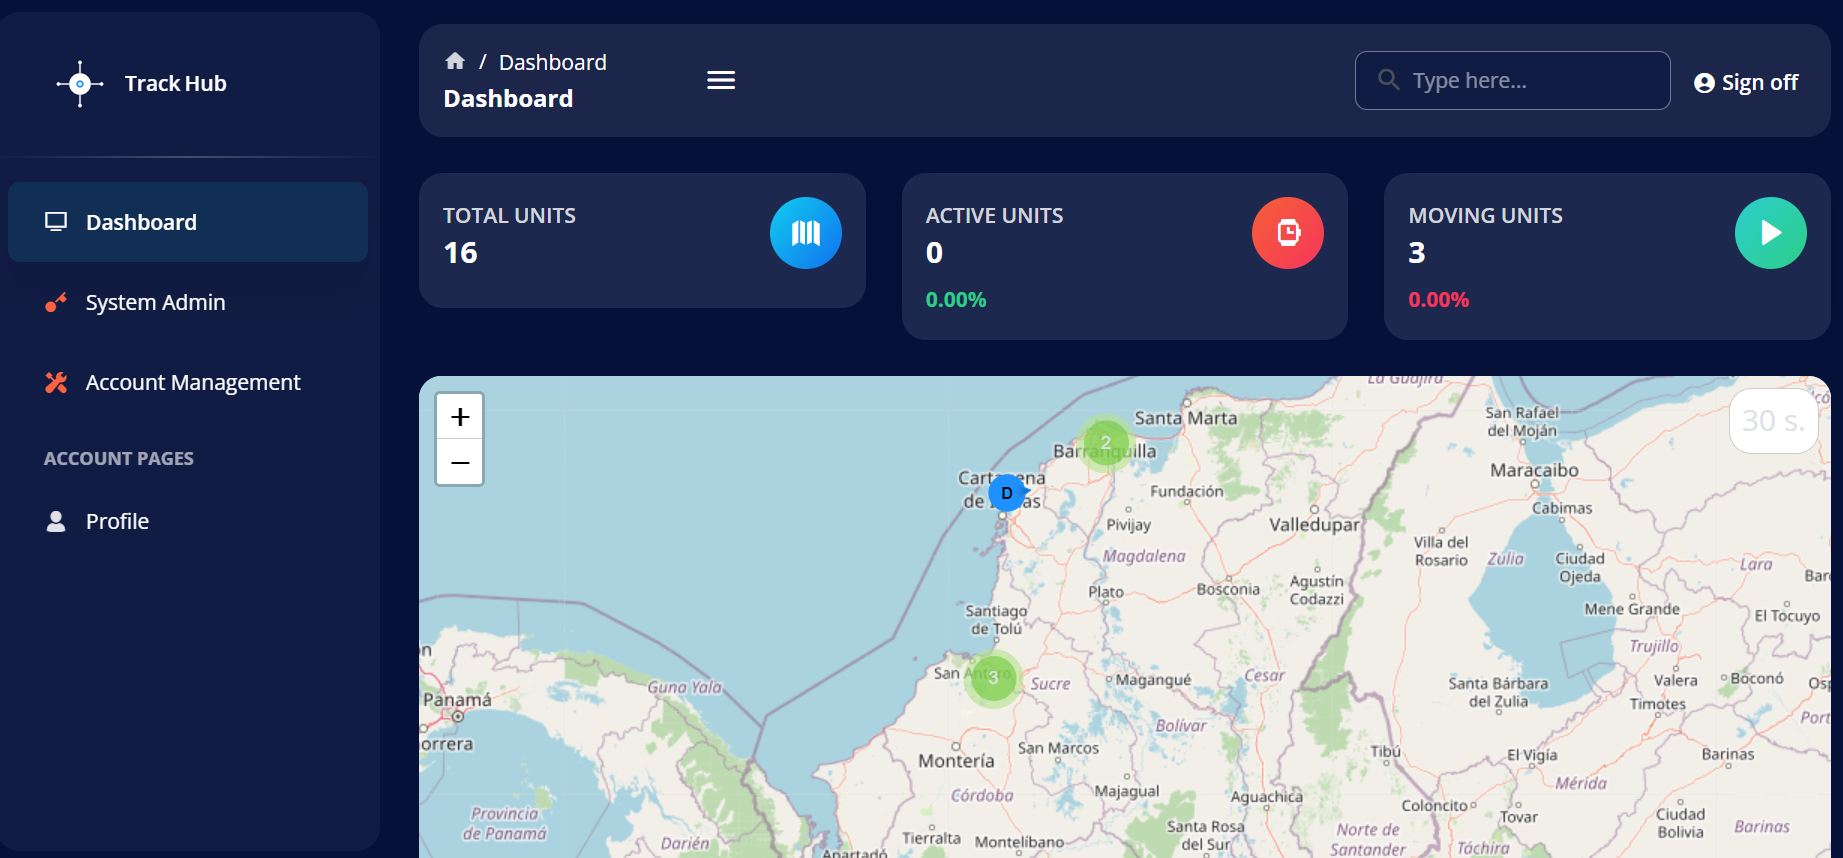
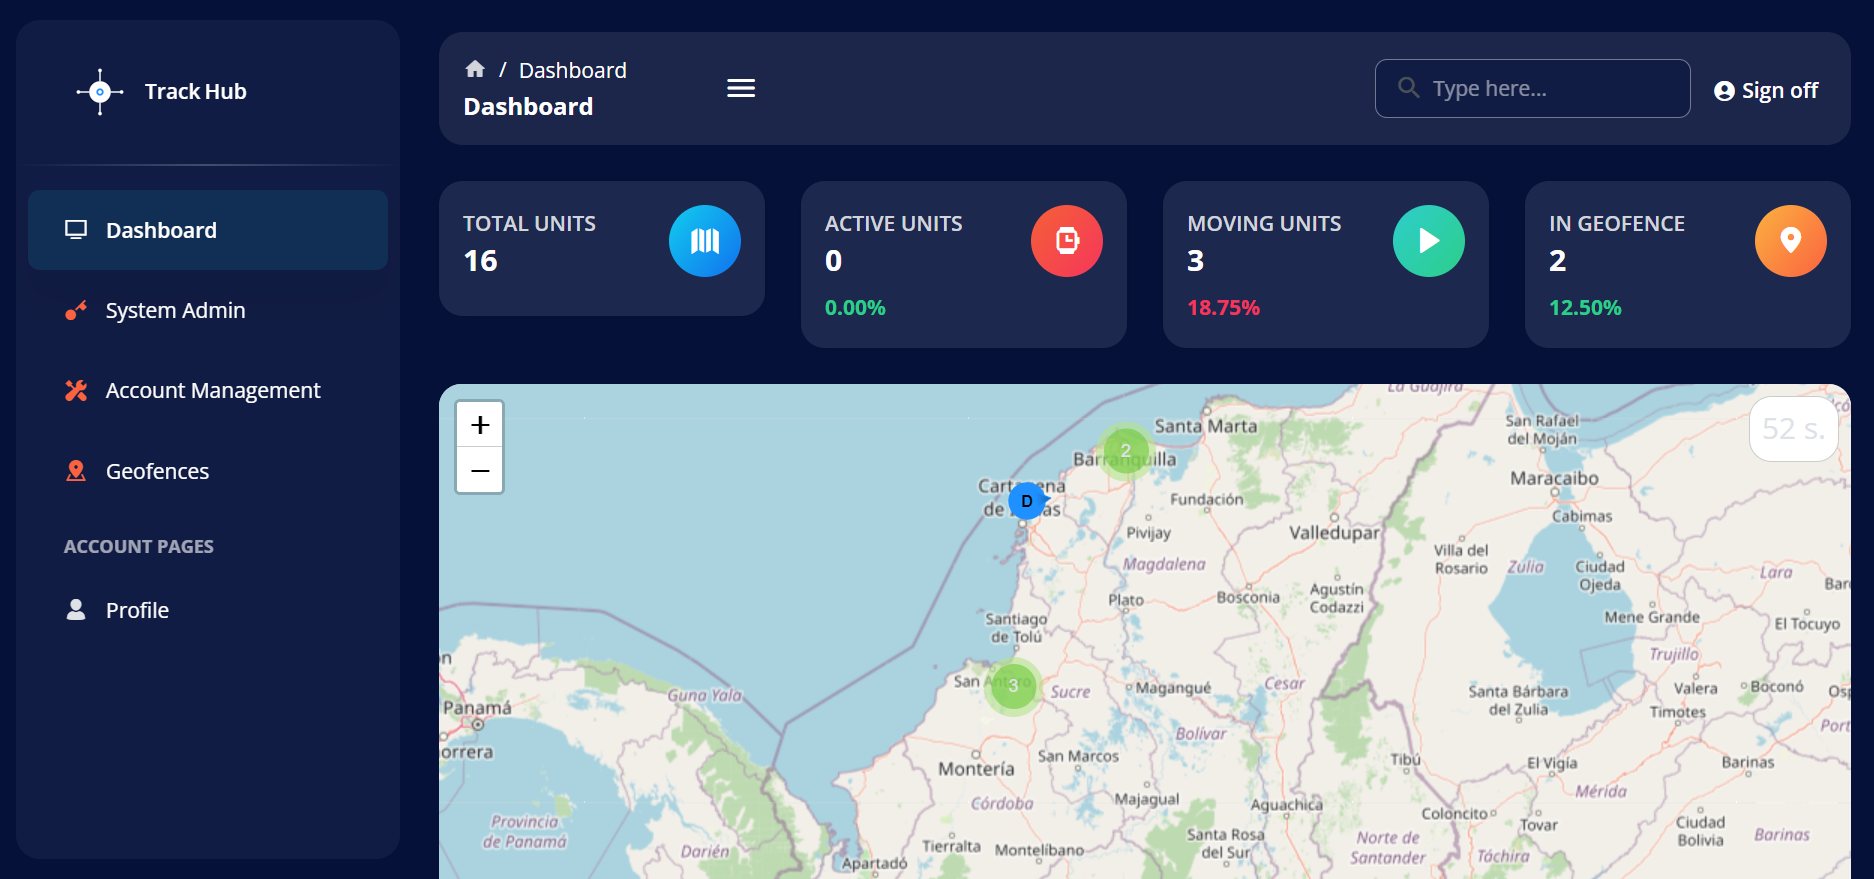
Included Total count of Units in geofences in the dashboard.

diff --git a/src/layouts/dashboard/index.js b/src/layouts/dashboard/index.js
@@ -45,6 +45,7 @@ import TransportersTable from "layouts/dashboard/components/TransportersTable";
 import TransporterList from "layouts/dashboard/components/TransporterList";
 import RefreshCounter from 'layouts/dashboard/components/RefreshCounter';
 import useRouterService from "services/router";
+import useGeofencingService from "services/geofencing";
 import useSettignsService from 'services/settings';
 import { LoadingContext } from 'LoadingContext';
 import { useTranslation } from 'react-i18next';
@@ -59,11 +60,13 @@ function Default() {
   const { t } = useTranslation();
   const { getPositions } = useRouterService();
   const { getAccountSettings } = useSettignsService();
+  const { getTransportersInGeofence } = useGeofencingService();
   const { setLoading } = useContext(LoadingContext);
   const { isAuthenticated } = useAuth();
   const [positions, setPositions] = useState([]);
   const [active, setActive] = useState(0);
   const [movement, setMovement] = useState(0);
+  const [inGeofence, setInGeofence] = useState(0);
   const [settings, setSettings] = useState({maps:'OSM', mapsKey:'', refreshMapInterval: 60});
   const [selectedTransporter, setSelectedTransporter] = useState(null);
   const [searchQuery, setSearchQuery] = useState('');
@@ -79,12 +82,22 @@ function Default() {
     setLoading(false);
   };
 
+  const calculateReference = async () => {
+    try {
+      var result = await getTransportersInGeofence();
+      setInGeofence(result.length);
+    } catch(e) {
+      console.error(e);
+    }
+  };
+
   const handleSearchChange = (event) => {
     setSearchQuery(event.target.value);
   };
 
   useEffect(() => {
     if (isAuthenticated) {
+      calculateReference();
       fetchPositions();
     }
   }, [isAuthenticated]);
@@ -98,7 +111,7 @@ function Default() {
       <DashboardNavbar searchQuery={searchQuery} handleSearch={handleSearchChange} searchVisibility={true}/>
       <ArgonBox py={3}>
         <Grid container spacing={3} mb={3}>
-          <Grid item xs={12} md={6} lg={4}>
+          <Grid item xs={12} md={6} lg={3}>
             <DetailedStatisticsCard
               title={t("dashboard.totalTitle")}
               count={positions.length}
@@ -106,7 +119,7 @@ function Default() {
               percentage={{ color: "success", hide: true }}
             />
           </Grid>
-          <Grid item xs={12} md={6} lg={4}>
+          <Grid item xs={12} md={6} lg={3}>
             <DetailedStatisticsCard
               title={t("dashboard.activeTitle")}
               count={active}
@@ -114,12 +127,20 @@ function Default() {
               percentage={{ color: "success", count: `${getPercentage(active, positions.length)}%` }}
             />
           </Grid>
-          <Grid item xs={12} md={6} lg={4}>
+          <Grid item xs={12} md={6} lg={3}>
             <DetailedStatisticsCard
               title={t("dashboard.movementTitle")}
               count={movement}
               icon={{ color: "success", component: <i className="ni ni-button-play" /> }}
-              percentage={{ color: "error", count: `${getPercentage(movement)}%` }}
+              percentage={{ color: "error", count: `${getPercentage(movement, positions.length)}%` }}
+            />
+          </Grid>
+          <Grid item xs={12} md={6} lg={3}>
+            <DetailedStatisticsCard
+              title={t("dashboard.inGeofence")}
+              count={inGeofence}
+              icon={{ color: "warning", component: <i className="ni ni-pin-3" /> }}
+              percentage={{ color: "success", count: `${getPercentage(inGeofence, positions.length)}%` }}
             />
           </Grid>
         </Grid>
@@ -132,7 +153,10 @@ function Default() {
               mapKey={settings.mapsKey}
               selectedMarker={selectedTransporter}
               handleSelected={handleSelected}/>
-            <RefreshCounter settings={settings} fetchPositions={fetchPositions} />
+            <RefreshCounter 
+              settings={settings} 
+              fetchPositions={fetchPositions}
+              calculateReference={calculateReference} />
           </MapControlStyle>
         </Grid>
         </Grid>

diff --git a/src/layouts/dashboard/components/RefreshCounter/index.js b/src/layouts/dashboard/components/RefreshCounter/index.js
@@ -17,12 +17,13 @@
 import React, { useState, useEffect  } from 'react';
 import PropTypes from 'prop-types';
 
-function RefreshCounter({ settings, fetchPositions }) {
+function RefreshCounter({ settings, fetchPositions, calculateReference }) {
     const [counter, setCounter] = useState(settings.refreshMapInterval || 60);
   
     useEffect(() => {
       if (counter === 0) {
         fetchPositions();
+        calculateReference();
         setCounter(settings.refreshMap ? settings.refreshMapInterval : 60);
       } else if (settings.refreshMap) { 
         const timer = setInterval(() => setCounter(counter - 1), 1000);
@@ -35,7 +36,8 @@ function RefreshCounter({ settings, fetchPositions }) {
   
   RefreshCounter.propTypes = {
     settings: PropTypes.object.isRequired,
-    fetchPositions: PropTypes.func.isRequired
+    fetchPositions: PropTypes.func.isRequired,
+    calculateReference: PropTypes.func.isRequired,
   };
 
   export default RefreshCounter;

diff --git a/src/controls/Maps/GeofenceEditor/index.js b/src/controls/Maps/GeofenceEditor/index.js
@@ -1,3 +1,19 @@
+/**
+* Copyright (c) 2024 Sergio Hernandez. All rights reserved.
+*
+*  Licensed under the Apache License, Version 2.0 (the "License").
+*  You may not use this file except in compliance with the License.
+*  You may obtain a copy of the License at
+*
+*      http://www.apache.org/licenses/LICENSE-2.0
+*
+*  Unless required by applicable law or agreed to in writing, software
+*  distributed under the License is distributed on an "AS IS" BASIS,
+*  WITHOUT WARRANTIES OR CONDITIONS OF ANY KIND, either express or implied.
+*  See the License for the specific language governing permissions and
+*  limitations under the License.
+*/
+
 import React, { useRef, useState, useEffect } from "react";
 import { MapContainer, TileLayer, Polygon } from "react-leaflet";
 import L from "leaflet";

diff --git a/README.md b/README.md
@@ -19,4 +19,5 @@ We believe in the strength of community collaboration to create effective and ac
 | **Security API**            | [https://github.com/shernandezp/TrackHubSecurity](https://github.com/shernandezp/TrackHubSecurity)  |
 | **Management API**          | [https://github.com/shernandezp/TrackHub.Manager](https://github.com/shernandezp/TrackHub.Manager)  |
 | **Router API**              | [https://github.com/shernandezp/TrackHubRouter](https://github.com/shernandezp/TrackHubRouter)    |
+| **Geofencing API**          | [https://github.com/shernandezp/TrackHub.Geofencing](https://github.com/shernandezp/TrackHub.Geofencing)    |
 | **TrackHub Web**            | [https://github.com/shernandezp/TrackHub](https://github.com/shernandezp/TrackHub)          |
